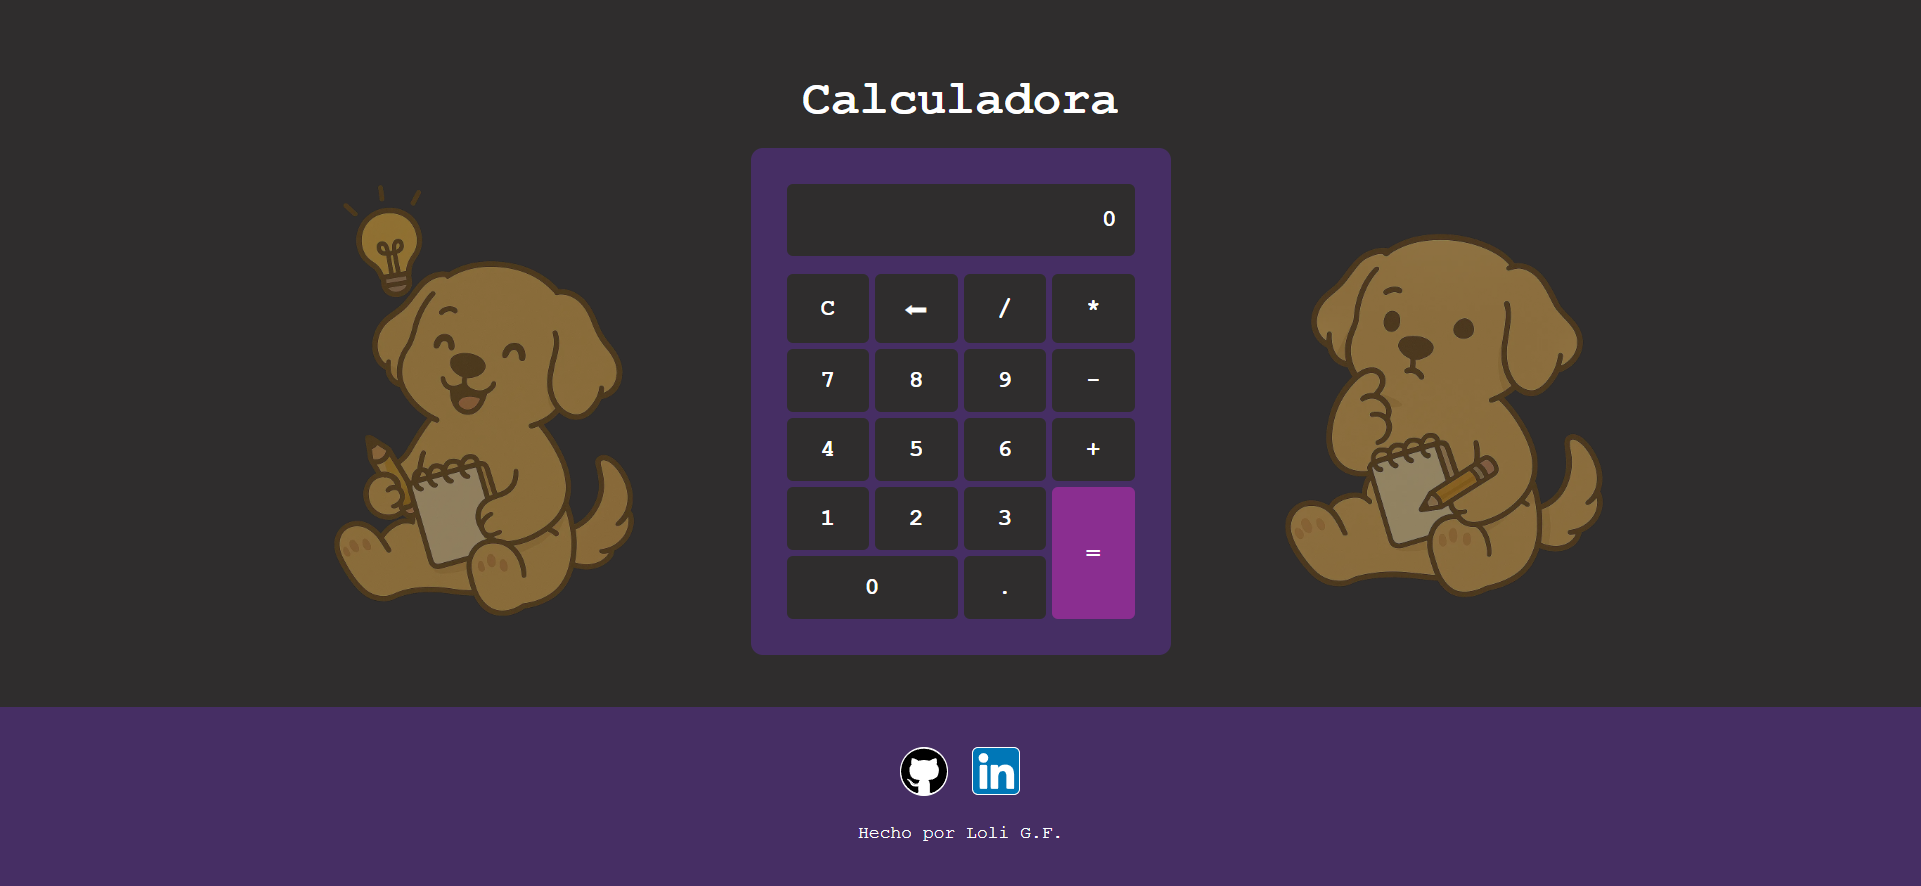
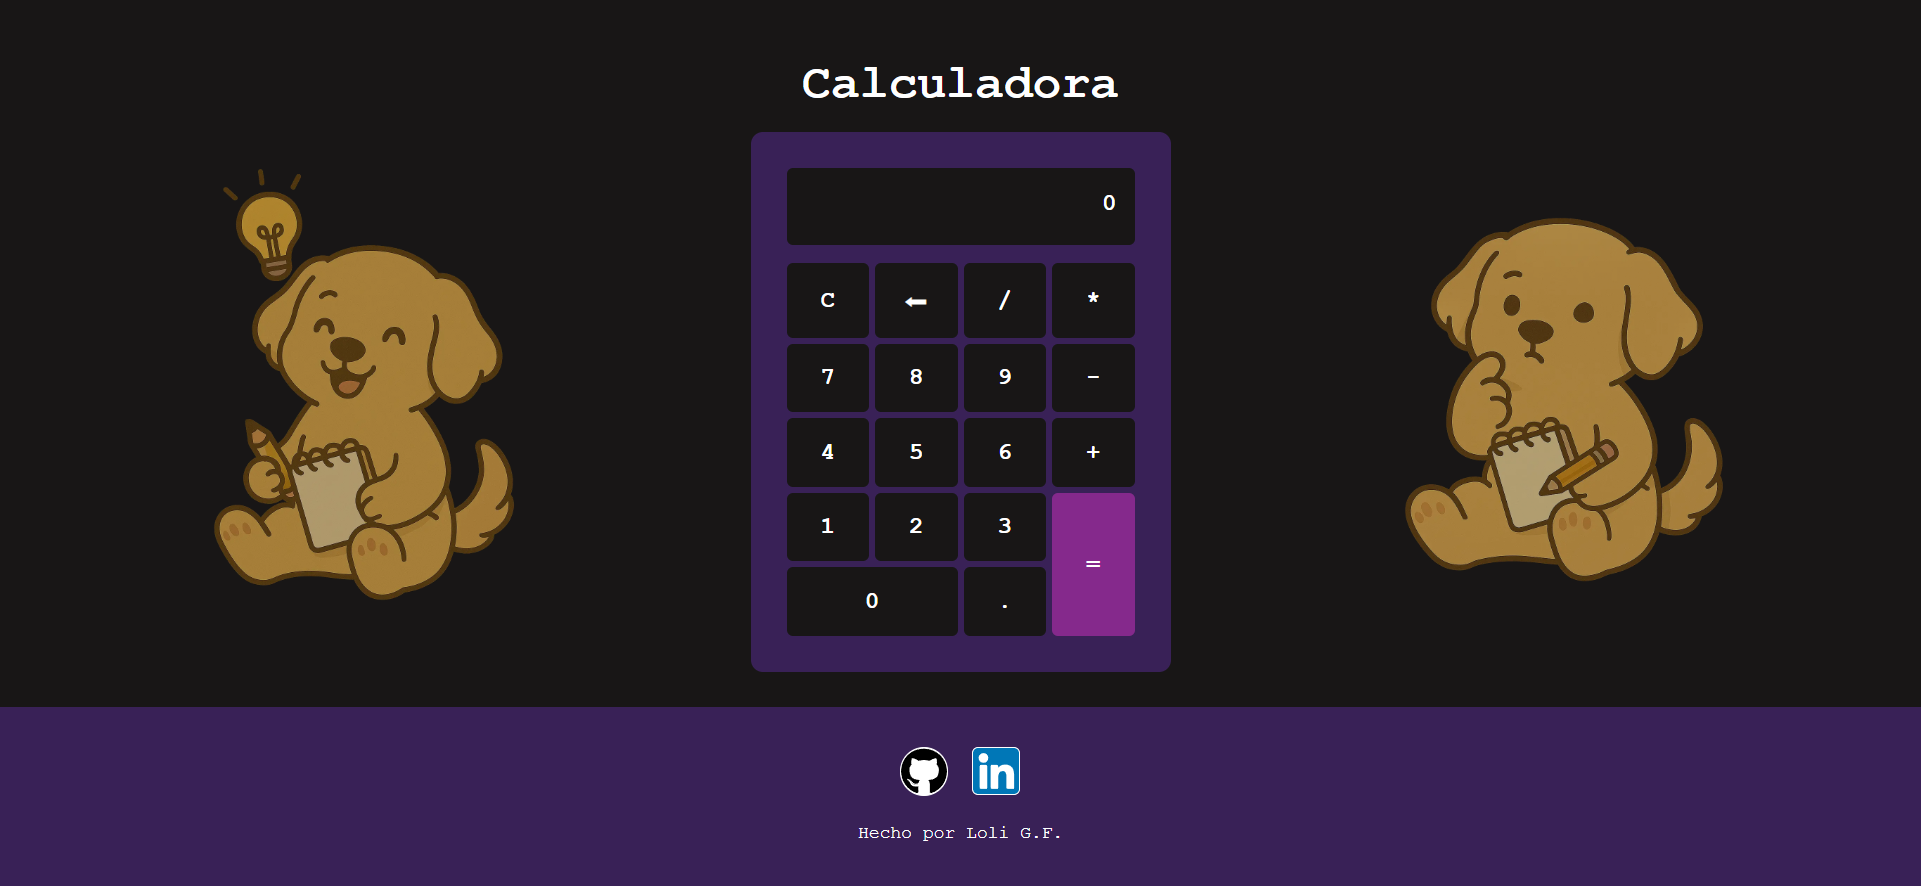
Upload miniatura y bg-color

diff --git a/assets/css/style.css b/assets/css/style.css
@@ -1,5 +1,6 @@
 :root {
-    --bg-color: hsl(0, 2%, 18%);
+    --bg-color: hsl(0, 4%, 9%);
+    /*--bg-color: hsl(0, 2%, 18%);*/
     --hover-btn-color: hsl(0, 4%, 16%);
     --igual-color: hsla(303, 58%, 43%, 0.66);
     --hover-igual-color: hsla(303, 58%, 43%, 0.848);
@@ -47,7 +48,7 @@ p {
 
         section img {
             width: 30rem;
-            filter: opacity(0.5);
+            filter: opacity(0.7);
             transition: all 200ms ease-in-out;
             
             &.perro-izq {
